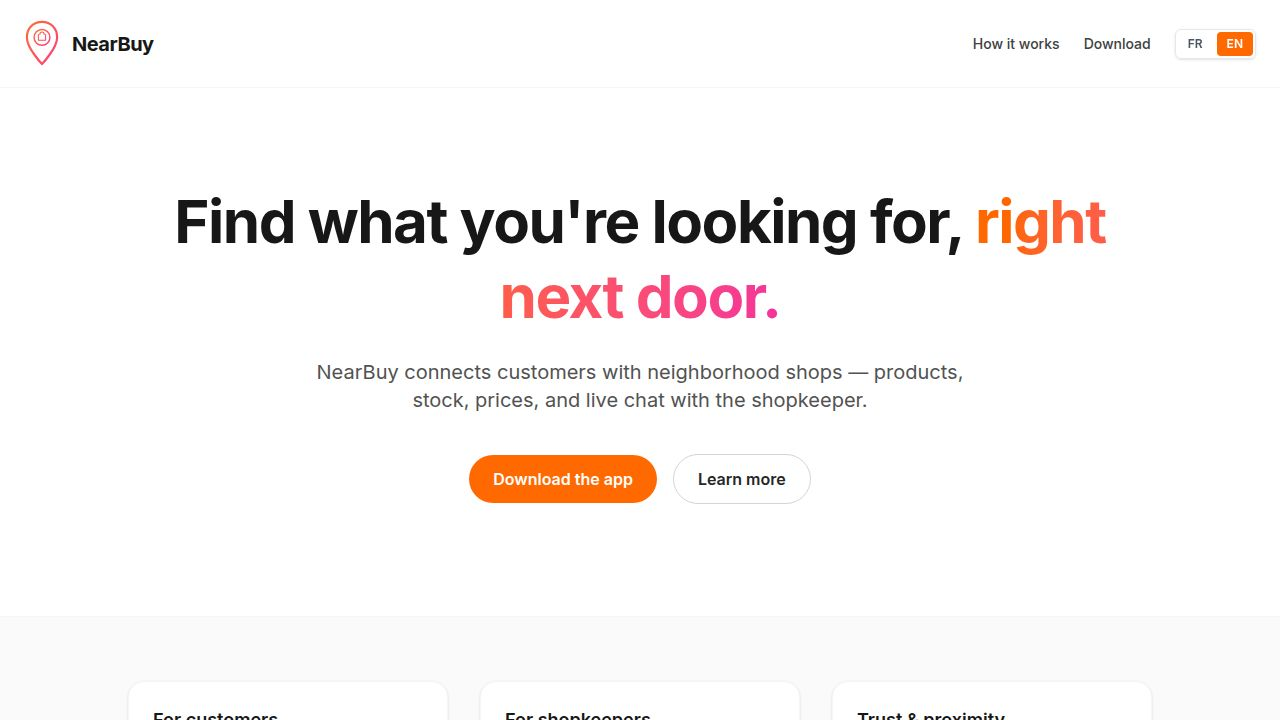
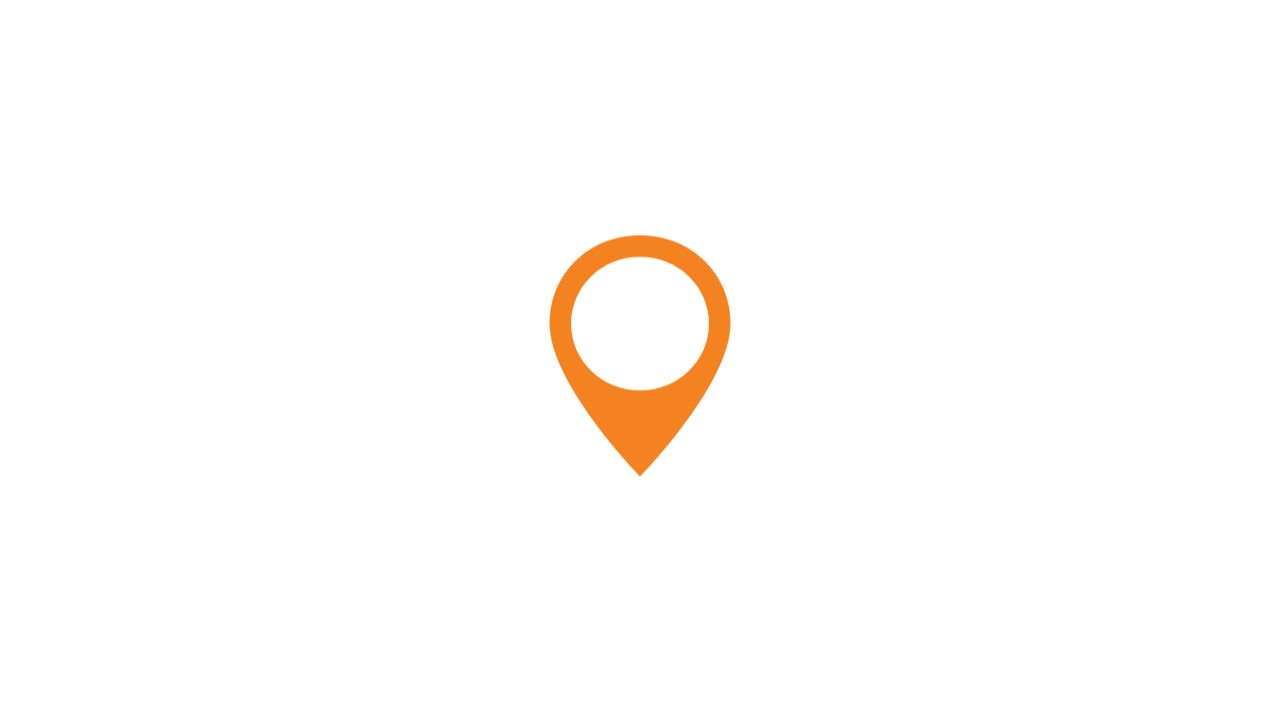
Adjust splash screen animation for better positioning and viewing
Add query parameters to force or pause splash screen animations for easier debugging and testing.

Replit-Commit-Author: Agent
Replit-Commit-Session-Id: 68b5b571-195b-46cc-8646-2c5f9fdf358b
Replit-Commit-Checkpoint-Type: full_checkpoint
Replit-Commit-Event-Id: 6c7b72ee-1d0f-42ad-b214-88e6dc48f261
Replit-Commit-Screenshot-Url: https://storage.googleapis.com/screenshot-production-us-central1/cd97c908-e1e0-45ac-8668-42f21dc7afc7/68b5b571-195b-46cc-8646-2c5f9fdf358b/vHb7Bil
Replit-Helium-Checkpoint-Created: true

diff --git a/artifacts/nearbuy-admin/src/components/AnimatedSplash.css b/artifacts/nearbuy-admin/src/components/AnimatedSplash.css
@@ -20,9 +20,13 @@
 
 /* --- Wordmark anchored at top:18% (matches mobile layout) --------------- */
 
+/* Position the wordmark so it sits just above where the pin lands after it
+   has shrunk to 0.5× and lifted by 100 px (its visible top is roughly
+   `viewportCenter - 164 px`). `max(12px, …)` keeps the wordmark on-screen
+   on very short viewports such as the workspace iframe preview. */
 .bsplash__wordmark {
   position: absolute;
-  top: 18%;
+  top: max(12px, calc(50% - 268px));
   left: 0;
   right: 0;
   display: flex;
@@ -42,7 +46,9 @@
 
 .bsplash__brand {
   font-family: "Inter", system-ui, sans-serif;
-  font-size: 56px;
+  /* Shrinks gracefully on tiny viewports so the wordmark never overlaps the
+     final pin position. Caps at 56 px to match the mobile reference. */
+  font-size: clamp(40px, 8vh, 56px);
   font-weight: 800;
   letter-spacing: -1px;
   line-height: 1;
@@ -59,7 +65,7 @@
 .bsplash__tagline {
   margin-top: 8px;
   font-family: "Inter", system-ui, sans-serif;
-  font-size: 15px;
+  font-size: clamp(13px, 2.5vh, 15px);
   font-weight: 500;
 }
 

diff --git a/artifacts/nearbuy-site/src/components/AnimatedSplash.css b/artifacts/nearbuy-site/src/components/AnimatedSplash.css
@@ -20,9 +20,13 @@
 
 /* --- Wordmark anchored at top:18% (matches mobile layout) --------------- */
 
+/* Position the wordmark so it sits just above where the pin lands after it
+   has shrunk to 0.5× and lifted by 100 px (its visible top is roughly
+   `viewportCenter - 164 px`). `max(12px, …)` keeps the wordmark on-screen
+   on very short viewports such as the workspace iframe preview. */
 .bsplash__wordmark {
   position: absolute;
-  top: 18%;
+  top: max(12px, calc(50% - 268px));
   left: 0;
   right: 0;
   display: flex;
@@ -42,7 +46,9 @@
 
 .bsplash__brand {
   font-family: "Inter", system-ui, sans-serif;
-  font-size: 56px;
+  /* Shrinks gracefully on tiny viewports so the wordmark never overlaps the
+     final pin position. Caps at 56 px to match the mobile reference. */
+  font-size: clamp(40px, 8vh, 56px);
   font-weight: 800;
   letter-spacing: -1px;
   line-height: 1;
@@ -59,7 +65,7 @@
 .bsplash__tagline {
   margin-top: 8px;
   font-family: "Inter", system-ui, sans-serif;
-  font-size: 15px;
+  font-size: clamp(13px, 2.5vh, 15px);
   font-weight: 500;
 }
 

diff --git a/artifacts/nearbuy-admin/src/pages/Login.tsx b/artifacts/nearbuy-admin/src/pages/Login.tsx
@@ -14,6 +14,8 @@ const SPLASH_FLAG_KEY = "nearbuy_admin_splash_played";
 
 function shouldPlaySplash(): boolean {
   if (typeof window === "undefined") return false;
+  // `?splash=force` query param forces the splash to play (useful for QA/preview).
+  if (window.location.search.includes("splash=force")) return true;
   try {
     return window.sessionStorage.getItem(SPLASH_FLAG_KEY) !== "1";
   } catch {

diff --git a/artifacts/nearbuy-site/src/App.tsx b/artifacts/nearbuy-site/src/App.tsx
@@ -15,6 +15,8 @@ const SPLASH_FLAG_KEY = "bizici_site_splash_played";
 
 function shouldPlaySplash(): boolean {
   if (typeof window === "undefined") return false;
+  // `?splash=force` query param forces the splash to play (useful for QA/preview).
+  if (window.location.search.includes("splash=force")) return true;
   try {
     return window.sessionStorage.getItem(SPLASH_FLAG_KEY) !== "1";
   } catch {

diff --git a/replit.md b/replit.md
@@ -2,29 +2,7 @@
 
 ## Overview
 
-BizIci is a two-sided marketplace connecting local shops with customers via "BizIci Pro" (seller app, dir `nearbuy-business`) and "BizIci" (customer app, dir `nearbuy`) mobile applications. Its core purpose is to digitize local commerce, enhance customer shopping with map-centric and visual search, and provide robust inventory management for businesses. The project aims for community engagement through features like "Still There?" verification and broadcast requests.
-
-### BizIci Branding (both mobile apps)
-
-Both apps share the same brand language. Palette derived from the BizIci logo:
-
-- Primary orange `#F58220` — pin, CTA, brand accent
-- Navy `#1B2A5C` — wordmark "Biz", headings, ink, pin base
-- Green `#7FB927` — wordmark "Ici", success states, storefront awning, sparks
-
-The cold-start splash (`components/AnimatedSplash.tsx` in each Expo app) plays the same six-step Reanimated sequence on mobile (skipped on web), totalling ~6 s before fade-out: orange pin drops in → green storefront with scalloped awning materialises inside → three green sparks burst → navy oval base appears under the pin → composition shrinks/lifts → "BizIci" wordmark + tagline fade in. The seller app variant adds a small orange "PRO" badge next to the wordmark and uses tagline "Gérez votre boutique"; the customer variant uses "Trouvez tout près de vous".
-
-App identifiers:
-
-- Customer app: name "BizIci", scheme `bizici`, bundle `com.bizici.app`.
-- Seller app: name "BizIci Pro", scheme `bizici-pro`, bundle `com.bizici.pro`.
-- Internal slugs (`nearbuy`, `nearbuy-business`), package names (`@workspace/nearbuy`, `@workspace/nearbuy-business`), and AsyncStorage keys (`nearbuy.*`) intentionally preserved to avoid breaking workspace tooling and existing user state.
-
-Static brand bitmaps live in each app's `assets/images/`:
-
-- `bizici-pin.png` — AI-regenerated transparent-background **pin only** (no wordmark), used as app icon, OS splash, web favicon, notification icon, and onboarding hero. Faithfully matches the reference logo (orange teardrop, scalloped green awning + stripes, navy door with green window, green shopping bag with handle, three green sparks, navy oval base).
-- `bizici-logo.png` — original full reference logo (pin + wordmark on white background), kept as brand reference.
-- `bizici-logo-transparent.png` — auto-bg-removed version of the original, kept as fallback.
+The NearBuy Suite, branded as BizIci, is a two-sided marketplace designed to connect local businesses with customers through "BizIci Pro" (seller app) and "BizIci" (customer app) mobile applications. Its primary goal is to digitize local commerce, enhance customer shopping experiences with map-centric and visual search, and provide robust inventory and service management tools for businesses. The platform aims to foster community engagement and facilitate efficient local transactions, including product sales, service bookings, and appointment management.
 
 ## User Preferences
 
@@ -32,54 +10,43 @@ I prefer concise and clear communication. When making changes, please prioritize
 
 ## System Architecture
 
-The NearBuy suite operates as a pnpm monorepo, utilizing a shared Node.js/Express backend with MongoDB (Mongoose) for data persistence and Clerk for authentication.
+The NearBuy suite is built as a pnpm monorepo, utilizing a shared Node.js/Express backend with MongoDB for data persistence and Clerk for authentication.
 
 **Mobile Applications (Expo React Native):**
-- **NearBuy Business (Seller App):** Manages shop details, inventory, and customer interactions for shop owners and staff.
-- **NearBuy (Customer App):** Facilitates product discovery, visual search, and interaction with shops, incorporating `react-native-maps` and `Fuse.js` for search.
+- **BizIci Pro (Seller App):** Enables shop owners and staff to manage shop details, products, services, and customer interactions.
+- **BizIci (Customer App):** Allows customers to discover products and services, perform visual searches, book appointments, and interact with shops, incorporating `react-native-maps` for location-based features and `Fuse.js` for search.
+
+**Web Applications (React + Vite SPA):**
+- **BizIci Admin:** A dedicated administration panel for platform management, user, shop, product, and service CRUD operations, and moderation. Supports `super_admin`, `admin`, and `moderator` roles.
+- **BizIci Marketing Site:** A public-facing site for marketing, information, and data privacy-compliant account deletion requests.
 
 **UI/UX Decisions:**
-- Consistent BizIci branding across **all four artifacts** (customer app, seller app, admin web, marketing site): orange `#F58220` / navy `#1B2A5C` / green `#7FB927` palette, shared `bizici-pin.png`, "Biz" navy + "Ici" green wordmark.
-- The customer app features a 4-slide onboarding pager with BizIci gradient heroes.
-- **Shared cold-start splash (`AnimatedSplash.tsx` + `.css` in both `nearbuy-admin` and `nearbuy-site`):** A pixel- and timing-faithful CSS port of the mobile Reanimated splash (`artifacts/nearbuy/components/AnimatedSplash.tsx`). Six-step choreography over ~6.2 s with `prefers-reduced-motion` snap-to-final fallback:
-  1. 0–700 ms: orange teardrop pin drops in from above (spring-like cubic-bezier)
-  2. 900–1700 ms: green storefront (scalloped awning + stripes + navy body + door + green window + shopping bag with handle) materialises inside the pin's white window
-  3. 1900–2500 ms: three green sparks burst above-left (bouncy 1.2× → 1× scale)
-  4. 2700–3400 ms: navy oval base/shadow appears under the pin tip
-  5. 3800–4520 ms: full pin composition shrinks to 0.5× and slides up by 100 px
-  6. 4200–4800 ms: "Biz Ici" wordmark + tagline fade in at the top (top: 18 %)
-  7. 5700–6200 ms: full-screen fade-out, then `onFinish()`
-  Both apps use BEM class prefix `bsplash` and `220 × 280 px` pin viewport to match mobile. Per-app overrides: admin tagline = "Espace administrateur", site tagline = "Trouvez tout près de vous". Splash flag stored in `sessionStorage` (`nearbuy_admin_splash_played` / `bizici_site_splash_played`) so it only plays on first visit per session. Mounted in `Login.tsx` (admin) / `App.tsx` (site).
-- **Admin web (`nearbuy-admin`):** Tailwind v4 HSL tokens in `src/index.css` (light + dark) target the BizIci palette (primary 26 91% 54%, sidebar navy 225 55% 23%). Sidebar header in `AdminLayout.tsx` uses `<img src="/bizici-pin.png">` + bicolor wordmark + "Admin" subtitle. The login card replaced the legacy "N" monogram badge with the same `bizici-pin.png`. Browser tab title is "BizIci Admin"; favicon is the BizIci pin SVG. The 404 page uses semantic `bg-background`/`text-foreground`/`text-destructive` tokens.
-- **Marketing site (`nearbuy-site`):** Same Tailwind v4 token rewrite (replaced placeholder `red` values). Header logo is the `<NearBuyLogo>` component (kept under that internal name) re-rendered with the BizIci pin SVG. Hero gradient text now goes orange→green. All `bg-orange-500`/`text-orange-600`/etc. Tailwind classes were swapped for arbitrary BizIci hex (`bg-[#F58220]`, `text-[#F58220]`, `bg-[#F58220]/10`) so colors match the brand exactly rather than Tailwind's stock orange. All copy ("NearBuy" / "NearBuy Business") rewritten to "BizIci" / "BizIci Pro" in pages, footer (`SiteFooter.tsx`), and locales (`fr.json` + `en.json`); support email migrated to `[email redacted]`. Favicon and `<title>` updated. The 404 page uses semantic tokens. Internal slugs (`nearbuy-admin`, `nearbuy-site`, `NearBuyLogo`) intentionally preserved.
+- **Consistent Branding:** Utilizes a unified BizIci brand palette (orange `#F58220`, navy `#1B2A5C`, green `#7FB927`) and shared visual assets (`bizici-pin.png`) across all applications.
+- **Animated Splash Screens:** All applications feature a synchronized, six-step animated splash sequence during cold-start.
+- **Theming:** Admin and Marketing web apps use Tailwind v4 with HSL tokens derived from the BizIci palette, supporting light and dark modes.
+- **Internationalization:** All applications support French and English localization using `i18next`.
 
 **Backend (Node.js/Express):**
-- **Clerk Integration:** Handles authentication, user sign-in/sign-up, SSO, and user role management (Seller, SubSeller).
-- **MongoDB Models:** Key models include `User`, `Shop`, `Product`, `Conversation`, `Message`, `ShopReview`, and `PushToken`. Geospatial indexes (`2dsphere`) are used for location-based queries, and compound indexes optimize chat message retrieval.
-- **API Endpoints:** Divided into public endpoints for general access (e.g., `public/shops`, `public/search`, `public/visual-search`) and authenticated endpoints for user-specific operations (e.g., `/me`, `/shops`, `/products`). The `visual-search` endpoint supports base64-encoded images up to 10 MB.
-- **Codegen Workflow:** OpenAPI specifications generate React Query hooks, types, and Zod schemas for validation.
+- **Clerk Integration:** Manages user authentication, sign-in, sign-up, and role-based access control.
+- **MongoDB Models:** Key models include `User`, `Shop`, `Product`, `Service`, `Appointment`, `Conversation`, and `Message`, with geospatial and compound indexes for optimized queries.
+- **API Endpoints:** Categorized into public and authenticated endpoints, supporting operations from product search to real-time chat and appointment management. The `visual-search` endpoint processes base64-encoded images.
+- **Codegen Workflow:** OpenAPI specifications are used to generate React Query hooks, types, and Zod schemas for API interactions.
 
 **Core Features:**
-- **Product and Shop Management:** Allows sellers to manage products (including AI photo analysis) and shop details.
-- **Search:** Includes text search with `Fuse.js` fuzzy re-ranking and a visual search camera tab.
-- **Karma System:** Rewards customer engagement with points.
-- **Roles:** Supports distinct roles for users (Seller, SubSeller) within different shops.
-- **Chat:** Enables 1:1 customer-seller conversations with unread counters, push notifications, and dedicated UI flows for both apps.
-- **Seller Mini-Dashboard:** Provides per-shop metrics and analytics for shop owners.
-- **Reviews & Ratings:** Customers can rate and review shops, with denormalized averages displayed on shop profiles.
-- **Admin Web Space (NearBuy Admin):** A separate React + Vite SPA for platform administration, featuring its own JWT authentication system. It includes comprehensive CRUD operations for users, shops, products, categories, and moderation tools for conversations and reviews. Supports `super_admin`, `admin`, and `moderator` roles with fine-grained access control.
-- **Internationalization (FR/EN):** All three applications (customer, seller, admin) use `i18next` for full French and English localization, with dynamic language switching.
-- **Public Marketing Site (NearBuy — Site vitrine):** A public-facing React + Vite SPA for marketing and account deletion requests, ensuring compliance with data privacy regulations.
-- **Course (Shopping Run):** Customers build a basket of free-text product queries (max 30, case-insensitive de-dup), then start a "course" that resolves each query against in-radius shops via a single `$nearSphere` lookup plus regex matching on product name/brand/description/tags. The mobile UI walks through one stop at a time, sorted by distance, with "Diriger" (deep-links to native maps via `maps://`/`geo:`/Google Maps fallback) and "Suivant" buttons. Backend: `Basket` model (singleton per user) + `/me/basket*` and `/me/basket/start-course` endpoints. Mobile: `app/course/` stack (basket + run screens) accessible from the Profile tab.
-- **Bilateral Appointments + Reviews:** A booking lifecycle on top of every chat thread. Only the customer can initiate (`POST /api/me/appointments` with `{shopId, scheduledAt, serviceId?, notes?}`); the seller (or any sub-seller) can accept/decline; the customer marks it completed; either side may cancel before completion. Models: `Appointment` (status: `proposed | confirmed | declined | completed | cancelled`, cached `conversationId`) and `AppointmentReview` (one per direction, unique compound index `(appointmentId, direction)`). Once `completed`, both sides leave a 1-5 star review + optional comment via `POST /api/me/appointments/:id/reviews`. Aggregates are recomputed automatically: client→provider scores update `Shop.serviceProvider.appointmentRating` + `appointmentReviewsCount`; provider→client scores update `User.trustRating` + `trustReviewsCount` (lets a provider gauge a customer before accepting). The conversation's `lastMessageAt` is bumped on every appointment event so the chat list re-sorts. **Customer UI (`artifacts/nearbuy`):** banner of `<AppointmentCard>` above the chat messages (`app/chat/[id].tsx`), `+` calendar button in the input bar to open the booking modal (text inputs YYYY-MM-DD + HH:MM, no datetimepicker dep), `Réserver un RDV` CTA on `app/provider/[shopId].tsx`, standalone list at `app/appointments/index.tsx`, header calendar icon → that list, review modal post-completion. **Business UI (`artifacts/nearbuy-business`):** same banner with Accept/Refuse/Cancel/Review actions in `app/(home)/shops/[shopId]/chat/[conversationId].tsx`, list at `app/(home)/shops/[shopId]/appointments.tsx`. Both apps share the wire types via `lib/appointmentsApi.ts` (no codegen — these routes are MVP and not in the OpenAPI spec yet) and reuse the project-wide `useColors`/`Button` primitives. i18n keys live under `appointments.*` in both apps' `fr.json` + `en.json`.
-- **Execution Location & Fulfillment:** Two orthogonal axes describe *where* a transaction happens. **Services**: `Shop.serviceProvider.serviceLocation` (`at_shop | at_customer | both`, default `at_shop`) is the provider's default execution mode; each `Service` may override with `at_shop | at_customer | both | inherit` (default `inherit`). The customer-facing serializer exposes both the raw value and a resolved `effectiveServiceLocation`. The public services search accepts `?serviceLocation=` (`at_customer` matches services that go to the customer; `both` matches only providers that explicitly do both). **Products**: `Shop.fulfillment` (`pickup_only | delivery_only | both`, default `pickup_only`) plus optional `Shop.deliveryRadiusKm` (1–100, clamped). **Appointments** snapshot the resolved mode at booking time (`Appointment.serviceLocation`) and require a `customerAddress` whenever the mode is `at_customer`; when the provider supports `both`, the customer must explicitly pick. **Business UI:** `ServiceLocationSelector` on the provider profile, `ServiceLocationOverrideSelector` on each service form (with an explicit "Hériter" option), `ShopFulfillmentSelector` + delivery-radius input on the shop edit screen (gated when `kind !== "services"` and fulfillment isn't pickup-only). **Customer UI:** `LocationBadge` + `FulfillmentBadge` on `ProviderBottomCard`, `ShopBottomSheet`, the provider profile (`app/provider/[shopId].tsx`), and `AppointmentCard`. Search has a "Vient chez moi" filter chip that sends `serviceLocation=at_customer`. The booking modal (`AppointmentBookingModal`) shows an at-shop / at-home picker only when the resolved mode is `both`, and reveals a multi-line address field whenever the resulting mode is `at_customer`. i18n keys live under `serviceLocation.*` and `fulfillment.*` in all three apps' FR + EN locale files.
-- **Services Marketplace:** A second product line on top of the same Shop spine. Each `Shop` carries a `kind` field (`products` | `services` | `hybrid`, default `products` for backward compat) and an embedded `serviceProvider` sub-document (firstName, lastName, age, hideAge, bio, yearsExperience, certifications[], serviceRadiusKm, portfolioPhotos[], isVerified). A separate `Service` collection (parallel to `Product`, no stock) holds individual offerings with one of three pricing models — `fixed` (price+duration), `hourly` (price/hour), or `quote` (on request). The `Category` model gained a `kind` field (`product` | `service`) and 10 default service categories are seeded on boot (coiffure, jardinage, cours particuliers, retouches/couture, plomberie, électricité, ménage, garde d'enfants, bricolage, peinture). **Privacy:** `age` is publicly visible by default; each provider can set `hideAge: true` to strip it from public payloads. **Endpoints:** public `/api/services/{categories,search,:id,providers/:shopId}` (search is `$nearSphere` on Shop with `kind ∈ {services, hybrid}` then service lookup), seller-gated `/api/me/shops/:shopId/{services,provider-profile}` (CRUD). **Customer UI:** Search tab has a `Produits / Services` segmented control; service mode shows category chips and groups results into provider cards that link to a dedicated `app/provider/[shopId].tsx` screen (hero, name+age, certifications, services, portfolio carousel, "Discuter" CTA reusing `/chat-shop/{shopId}`). **Business UI:** shop wizard exposes a "type de boutique" selector; when services/hybrid, a "Mon profil prestataire" tab appears alongside a "Services" CRUD tab. Demo data can be seeded with `pnpm --filter @workspace/scripts run seed:demo-services` (idempotent — creates Salon Anaïs at Châtelet with three coiffure services).
+- **Shop & Product/Service Management:** Comprehensive tools for sellers to manage their offerings, including AI-powered photo analysis for products and detailed service configurations.
+- **Search Capabilities:** Includes text-based fuzzy search and a visual search feature for products.
+- **Customer Engagement:** Features a karma system for customer rewards, 1:1 customer-seller chat with push notifications, and shop review/rating mechanisms.
+- **Roles & Permissions:** Differentiates between Seller and SubSeller roles within shops.
+- **Appointment System:** A full lifecycle for booking, confirming, declining, completing, and reviewing appointments between customers and service providers, integrated within chat threads.
+- **Fulfillment & Execution Locations:** Configurable options for product fulfillment (pickup, delivery) and service execution locations (at shop, at customer, both), with corresponding search filters and booking considerations.
+- **Services Marketplace:** Supports service-based businesses with distinct service categories, customizable pricing models (fixed, hourly, quote), and detailed provider profiles.
+- **Shopping Run (Course):** Allows customers to create a list of product queries and find available items in nearby shops, guiding them through an optimized shopping route.
 
 ## External Dependencies
 
-- **Clerk:** User authentication and identity management.
-- **MongoDB Atlas:** Cloud-hosted NoSQL database for data storage.
-- **OpenAI (via Replit AI Integrations proxy):** Powers AI photo analysis for product details.
-- **Expo:** Development framework for cross-platform React Native applications.
-- **`react-native-maps`:** Provides map components and location services for mobile apps.
-- **`Fuse.js`:** Client-side library for fuzzy search capabilities.
+- **Clerk:** For user authentication and identity management.
+- **MongoDB Atlas:** Cloud-hosted database for data storage.
+- **OpenAI:** Used for AI photo analysis, integrated via Replit AI Integrations proxy.
+- **Expo:** Development framework for building cross-platform mobile applications.
+- **`react-native-maps`:** For map functionalities and location services in mobile applications.
+- **`Fuse.js`:** For client-side fuzzy search implementation.